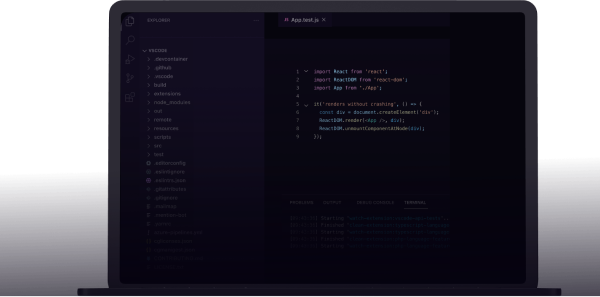
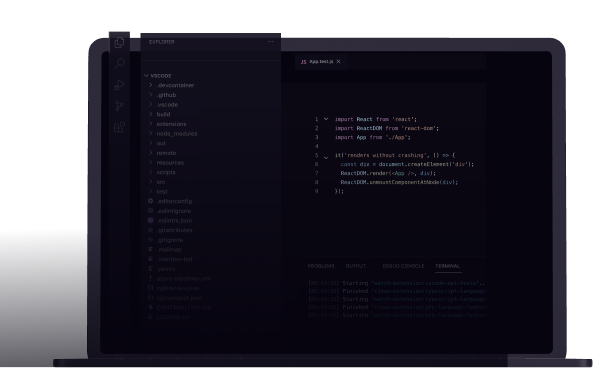
icones, links e estilo adicionados no footer

diff --git a/index.html b/index.html
@@ -180,17 +180,52 @@
     <footer>
       <div class="aboutMe contain">
         <div class="aboutMe-grid">
-          <h2 class="text-en">Who is Rafael Pereira?</h2>
-          <h2 class="text-pt">Quem é Rafael Pereira?</h2>
+          <h2 class="text-en">Who is <span>Rafael Pereira</span>?</h2>
+          <h2 class="text-pt">Quem é <span>Rafael Pereira</span>?</h2>
           <p class="text-en">Lorem ipsum dolor sit amet consectetur adipisicing elit. Excepturi, dolores possimus cupiditate illum porro accusamus quidem minima consequuntur assumenda optio dolor modi voluptatem placeat eius nulla cum iure earum. Officiis.</p>
           <p class="text-en">Lorem ipsum dolor sit amet consectetur adipisicing elit. Excepturi, dolores possimus cupiditate illum porro accusamus quidem minima consequuntur assumenda optio dolor modi voluptatem placeat eius nulla cum iure earum. Officiis.</p>
           <p class="text-pt"> Excepturi, dolores possimus cupiditate illum porro accusamus quidem minima consequuntur assumenda optio dolor modi voluptatem placeat eius nulla cum iure earum. Officiis.</p>
           <p class="text-pt"> Excepturi, dolores possimus cupiditate illum porro accusamus quidem minima consequuntur assumenda optio dolor modi voluptatem placeat eius nulla cum iure earum. Officiis.</p>
           <ul>
             <li>
-              <a href="">
+              <a href="https://www.linkedin.com/in/rafael-pereira-40a853230/" target="_blank">
+                <svg xmlns="http://www.w3.org/2000/svg" x="0px" y="0px" width="35" height="35" viewBox="0 0 24 24">
+                  <path d="M 5 3 C 3.895 3 3 3.895 3 5 L 3 19 C 3 20.105 3.895 21 5 21 L 19 21 C 20.105 21 21 20.105 21 19 L 21 5 C 21 3.895 20.105 3 19 3 L 5 3 z M 5 5 L 19 5 L 19 19 L 5 19 L 5 5 z M 7.7792969 6.3164062 C 6.9222969 6.3164062 6.4082031 6.8315781 6.4082031 7.5175781 C 6.4082031 8.2035781 6.9223594 8.7167969 7.6933594 8.7167969 C 8.5503594 8.7167969 9.0644531 8.2035781 9.0644531 7.5175781 C 9.0644531 6.8315781 8.5502969 6.3164062 7.7792969 6.3164062 z M 6.4765625 10 L 6.4765625 17 L 9 17 L 9 10 L 6.4765625 10 z M 11.082031 10 L 11.082031 17 L 13.605469 17 L 13.605469 13.173828 C 13.605469 12.034828 14.418109 11.871094 14.662109 11.871094 C 14.906109 11.871094 15.558594 12.115828 15.558594 13.173828 L 15.558594 17 L 18 17 L 18 13.173828 C 18 10.976828 17.023734 10 15.802734 10 C 14.581734 10 13.930469 10.406562 13.605469 10.976562 L 13.605469 10 L 11.082031 10 z"></path>
+                </svg>
+              </a>
+            </li>
+            <li>
+              <a href="https://www.instagram.com/rafael.frontend.dev/" target="_blank">
+                <svg width="32" height="32" viewBox="0 0 24 24">
+                  <path fill-rule="#fff" d="M7.8 2h8.4C19.4 2 22 4.6 22 7.8v8.4a5.8 5.8 0 0 1-5.8 5.8H7.8C4.6 22 2 19.4 2 16.2V7.8A5.8 5.8 0 0 1 7.8 2m-.2 2A3.6 3.6 0 0 0 4 7.6v8.8C4 18.39 5.61 20 7.6 20h8.8a3.6 3.6 0 0 0 3.6-3.6V7.6C20 5.61 18.39 4 16.4 4H7.6m9.65 1.5a1.25 1.25 0 0 1 1.25 1.25A1.25 1.25 0 0 1 17.25 8A1.25 1.25 0 0 1 16 6.75a1.25 1.25 0 0 1 1.25-1.25M12 7a5 5 0 0 1 5 5a5 5 0 0 1-5 5a5 5 0 0 1-5-5a5 5 0 0 1 5-5m0 2a3 3 0 0 0-3 3a3 3 0 0 0 3 3a3 3 0 0 0 3-3a3 3 0 0 0-3-3Z" />
+                </svg>
+              </a>
+            </li>
+            <li>
+              <a href="mailto:rafaengcivilrj@outlook.com" target="_blank">
+                <svg width="32" height="32" viewBox="0 0 24 24">
+                  <path d="M19 4H5a3 3 0 0 0-3 3v10a3 3 0 0 0 3 3h14a3 3 0 0 0 3-3V7a3 3 0 0 0-3-3Zm-.67 2L12 10.75L5.67 6ZM19 18H5a1 1 0 0 1-1-1V7.25l7.4 5.55a1 1 0 0 0 .6.2a1 1 0 0 0 .6-.2L20 7.25V17a1 1 0 0 1-1 1Z" />
+                </svg>
+              </a>
+            </li>
+            <li>
+              <a href="https://t.me/Rafa3774" target="_blank">
+                <svg width="32" height="32" viewBox="0 0 48 48">
+                  <path d="M41.42 7.309s3.885-1.515 3.56 2.164c-.107 1.515-1.078 6.818-1.834 12.553l-2.59 16.99s-.216 2.489-2.159 2.922c-1.942.432-4.856-1.515-5.396-1.948c-.432-.325-8.094-5.195-10.792-7.575c-.756-.65-1.62-1.948.108-3.463L33.648 18.13c1.295-1.298 2.59-4.328-2.806-.649l-15.11 10.28s-1.727 1.083-4.964.109l-7.016-2.165s-2.59-1.623 1.835-3.246c10.793-5.086 24.068-10.28 35.831-15.15Z" />
+                </svg>
+              </a>
+            </li>
+            <li>
+              <a href="https://github.com/rafaelpereirafront" target="_blank">
                 <svg xmlns="http://www.w3.org/2000/svg" x="0px" y="0px" width="35" height="35" viewBox="0 0 48 48">
                   <path d="M 24 4 C 12.972066 4 4 12.972074 4 24 C 4 35.027926 12.972066 44 24 44 C 35.027934 44 44 35.027926 44 24 C 44 12.972074 35.027934 4 24 4 z M 24 7 C 33.406615 7 41 14.593391 41 24 C 41 31.66536 35.956939 38.122519 29 40.251953 L 29 35.136719 C 29 33.226635 27.899316 31.588619 26.308594 30.773438 A 10 8 0 0 0 32.4375 18.720703 C 32.881044 17.355414 33.376523 14.960672 32.199219 13.076172 C 29.929345 13.076172 28.464667 14.632086 27.765625 15.599609 A 10 8 0 0 0 24 15 A 10 8 0 0 0 20.230469 15.59375 C 19.529731 14.625773 18.066226 13.076172 15.800781 13.076172 C 14.449711 15.238817 15.28492 17.564557 15.732422 18.513672 A 10 8 0 0 0 21.681641 30.779297 C 20.3755 31.452483 19.397283 32.674042 19.097656 34.15625 L 17.783203 34.15625 C 16.486203 34.15625 15.98225 33.629234 15.28125 32.740234 C 14.58925 31.851234 13.845172 31.253859 12.951172 31.005859 C 12.469172 30.954859 12.144453 31.321484 12.564453 31.646484 C 13.983453 32.612484 14.081391 34.193516 14.650391 35.228516 C 15.168391 36.160516 16.229687 37 17.429688 37 L 19 37 L 19 40.251953 C 12.043061 38.122519 7 31.66536 7 24 C 7 14.593391 14.593385 7 24 7 z"></path>
+                </svg>
+              </a>
+            </li>
+            <li>
+              <a href="https://pt.stackoverflow.com/users/299933/rafael-pereira" target="_blank">
+                <svg width="32" height="32" viewBox="0 0 24 24">
+                  <path d="m15.725 0l-1.72 1.277l6.39 8.588l1.716-1.277L15.725 0zm-3.94 3.418l-1.369 1.644l8.225 6.85l1.369-1.644l-8.225-6.85zm-3.15 4.465l-.905 1.94l9.702 4.517l.904-1.94l-9.701-4.517zm-1.85 4.86l-.44 2.093l10.473 2.201l.44-2.092l-10.473-2.203zM1.89 15.47V24h19.19v-8.53h-2.133v6.397H4.021v-6.396H1.89zm4.265 2.133v2.13h10.66v-2.13H6.154Z" />
                 </svg>
               </a>
             </li>
@@ -200,21 +235,31 @@
           <h2 class="text-en">My Skills</h2>
           <h2 class="text-pt">Minhas Habilidades</h2>
           <div class="skill-grid">
-            <div class="skills">
-              <img src="/scr/technology/js.png" alt="">
-              <img src="/scr/technology/docker.png" alt="">
-              <img src="/scr/technology/mysql.png" alt="">
-              <img src="/scr/technology/nodejs.png" alt="">
-              <img src="/scr/technology/reacjs.png" alt="">
-            </div>
+            <ul class="skills">
+              <li>
+                <img src="/scr/technology/LogosReact 1.png" alt="reactjs">
+              </li>
+              <li>
+                <img src="/scr/technology/LogosJavascript.png" alt="javascript">
+              </li>
+              <li>
+                <img src="/scr/technology/LogosMysql.png" alt="MySql">
+              </li>
+              <li>
+                <img src="/scr/technology/LogosNodejsIcon 1.png" alt="Nodejs">
+              </li>
+              <li>
+                <img src="/scr/technology/LogosGitIcon 1.png" alt="Git">
+              </li>
+            </ul>
             <div class="skill-contact">
               <h2 class="text-en">Let's Work Togheter?</h2>
               <h2 class="text-pt">Vamos Trabalhar Juntos?</h2>
               <span class="text-en">
-                <a href=""><button>Contact</button></a>
+                <a href="https://api.whatsapp.com/send/?phone=5511946031875&text&type=phone_number&app_absent=0" target="_blank"><button>Contact</button></a>
               </span>
               <span class="text-pt">
-                <a href=""><button>Contato</button></a>
+                <a href="https://api.whatsapp.com/send/?phone=5511946031875&text&type=phone_number&app_absent=0" target="_blank"><button>Contato</button></a>
               </span>
             </div>
           </div>

diff --git a/style/footer.css b/style/footer.css
@@ -1,9 +1,8 @@
 footer {
-  background: linear-gradient(
-    35deg,
-    rgba(117, 62, 244, 1) 0%,
-    rgba(6, 1, 18, 1) 35%
-  );
+  background-image: url('/scr/backFooter.png');
+  background-position: left bottom;
+  background-repeat: no-repeat;
+  background-size: contain;
 }
 
 .aboutMe {
@@ -23,11 +22,20 @@ footer {
   margin-bottom: 1em;
 }
 
+.aboutMe h2 span {
+  color: var(--color-title-span);
+  white-space: nowrap;
+}
+
 .aboutMe-grid p {
   margin-bottom: 0.5em;
 }
 .aboutMe-grid ul {
   display: flex;
+}
+
+.aboutMe-grid li {
+  margin-right: 2em;
 }
 
 .aboutMe-grid li svg {
@@ -54,6 +62,7 @@ footer {
 }
 
 .skill-grid img {
+  object-fit: contain;
   max-width: 6em;
   margin-right: 3em;
   margin-bottom: 0.5em;
@@ -97,8 +106,18 @@ footer {
 }
 
 @media (max-width: 977px) {
+  footer {
+    background-position: bottom;
+    background-size: cover;
+  }
+
   .aboutMe {
     display: block;
+  }
+
+  .aboutMe h2 {
+    line-height: 1.2em;
+    font-size: 3rem;
   }
 
   .aboutMe-grid {

diff --git a/style/header.css b/style/header.css
@@ -131,16 +131,13 @@ h1 span {
 }
 
 @media (max-width: 839px) {
-  .mac {
-    display: none;
-  }
-
-  .mac-mobile {
-    display: block;
-  }
-
   .div-nav {
-    padding-top: 2em;
+    padding-top: 1.5em;
+  }
+
+  .mac {
+    object-fit: cover;
+    right: -15rem;
   }
 }
 
@@ -148,6 +145,15 @@ h1 span {
 @media (max-width: 480px) {
   h1 {
     font-size: 4.2rem;
+  }
+
+  .mac {
+    display: none;
+  }
+
+  .mac-mobile {
+    display: block;
+    margin-bottom: 4em;
   }
 
   .header-text {

diff --git a/style/geral.css b/style/geral.css
@@ -27,7 +27,7 @@ body {
   max-width: 100vw;
 }
 .wrapper {
-  overflow-x: hidden !important;
+  overflow-x: hidden;
   position: relative;
 }
 
